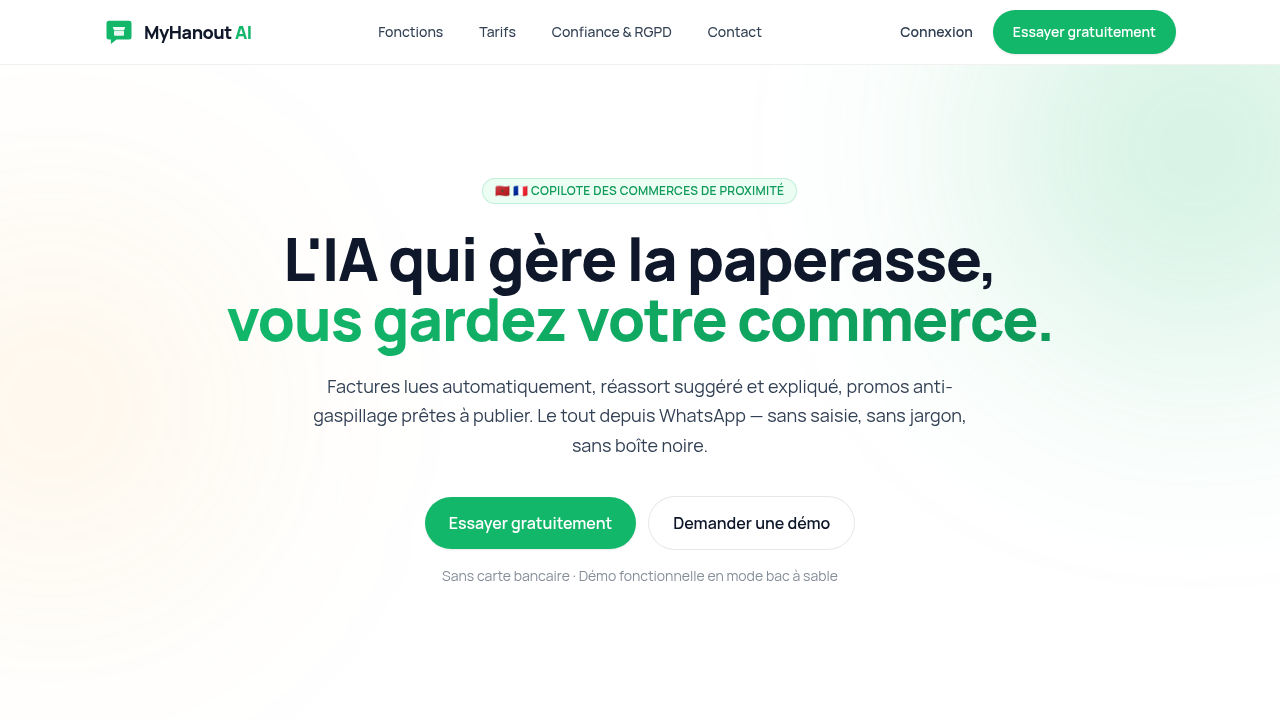
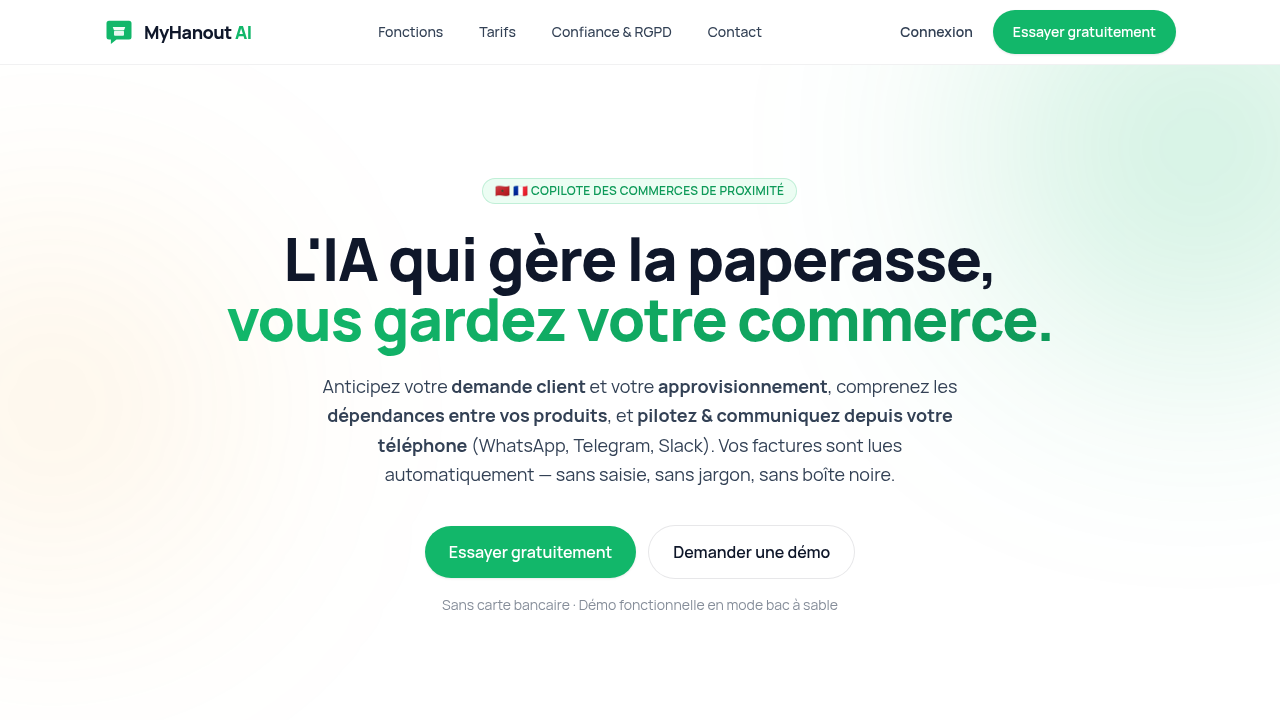
copy(positioning): recentre le hook (demande + appro + dépendances + communication mobile)
Repositionne la communication marketing (README + vitrine) :
- Met en avant : prévoir la **demande client ET l'approvisionnement**, **comprendre
  les dépendances entre produits** (compléments/substituts), et **piloter & communiquer
  depuis le téléphone** (WhatsApp/Telegram/Slack).
- Sort l'**anti-gaspillage du cœur** du message : la promo/animation reste une
  fonctionnalité (« Communication & promos »), plus l'argument central.
- Hero, cartes fonctions, section split, steps, SEO (consts), README intro + tableau,
  contact + pricing. Captures vitrine régénérées.

Claude-Session: https://claude.ai/code/session_01RTAAvKsH6QCtLuynx2CiAU

Changed region(s): [[0.25, 0.5194, 0.75, 0.8556], [0.5312, 0.7028, 0.6562, 0.7333]]

diff --git a/website/src/consts.ts b/website/src/consts.ts
@@ -3,8 +3,9 @@ export const SITE = {
   name: "MyHanout AI",
   title: "MyHanout AI — Le copilote IA des commerces de proximité",
   description:
-    "OCR de factures, prévision de la demande, réassort explicable et promos anti-gaspillage. " +
-    "Piloté depuis WhatsApp/Telegram. Multi-tenant, RGPD, human-in-the-loop.",
+    "Prévoyez votre demande client et votre approvisionnement, comprenez les dépendances " +
+    "entre vos produits, et communiquez depuis votre téléphone (WhatsApp/Telegram/Slack). " +
+    "OCR de factures inclus. Multi-tenant, RGPD, human-in-the-loop.",
   // URL de l'app (dashboard). Surchargée par PUBLIC_APP_URL au build si besoin.
   appUrl: import.meta.env.PUBLIC_APP_URL || "http://localhost:5173",
 };

diff --git a/README.md b/README.md
@@ -1,7 +1,7 @@
 # 🏪 MyHanout AI — l'IA qui vous facilite la gestion de votre commerce
 
 > Copilot IA pour les commerces de proximité (boucherie, épicerie, boulangerie, primeur…),
-> piloté depuis **WhatsApp / Telegram** + un dashboard léger.
+> piloté depuis **WhatsApp / Telegram / Slack** + un dashboard léger.
 > Principe directeur : **human-in-the-loop · explicable · auditable · RGPD · multi-commerces.**
 
 <p>
@@ -13,10 +13,11 @@
   <img alt="status" src="https://img.shields.io/badge/statut-démo%20fonctionnelle-success.svg" />
 </p>
 
-MyHanout AI ingère le passif documentaire du commerçant (factures PDF/photo via OCR),
-structure les données, **prévoit la demande**, **alerte** sur ruptures et péremptions,
-propose des **commandes de réassort explicables**, déclenche des **promos anti-gaspillage**,
-et **répond/agit** par messagerie — toujours sous contrôle humain.
+MyHanout AI **prévoit la demande client et l'approvisionnement**, **comprend les dépendances
+entre produits** (compléments / substituts), propose des **commandes de réassort explicables**,
+**alerte** sur les ruptures, et vous laisse **communiquer & piloter votre commerce depuis votre
+téléphone** (WhatsApp / Telegram / Slack). Il ingère aussi le passif documentaire (factures
+PDF/photo via OCR) pour nourrir le tout — toujours sous contrôle humain.
 
 <p align="center">
   <img src="website/public/shots/dashboard.png" alt="Dashboard MyHanout AI" width="49%" />
@@ -27,7 +28,7 @@ et **répond/agit** par messagerie — toujours sous contrôle humain.
   <img src="website/public/shots/data-ops.png" alt="Data Ops — orchestration des pipelines" width="49%" />
 </p>
 <p align="center">
-  <img src="website/public/shots/promos.png" alt="Promo anti-gaspillage + affiche générée" width="49%" />
+  <img src="website/public/shots/promos.png" alt="Promo & communication client + affiche générée" width="49%" />
   <img src="website/public/shots/invoices.png" alt="Factures (OCR + import email)" width="49%" />
 </p>
 
@@ -61,7 +62,7 @@ simulés tant qu'aucune clé n'est fournie. Scénario pas-à-pas : **[`docs/DEMO
 | 📊 Forecasting | Prévision de demande (naïf par défaut, Prophet/LightGBM en option) + saisonnalité/fêtes + **signaux externes** (météo, vacances scolaires, carburant, foot…) et **effets entre produits** (substituts/compléments) — voir ci-dessous |
 | 🛒 Réassort | Suggestions **explicables** (demande + stock + délai + signaux), 3 modes d'envoi fournisseur |
 | 🗂️ Catalogue | **Gestion produits** (créer/éditer) + **rangement par famille** (rayon), recherche/filtre |
-| 🔔 Promos flash | Détection fin de vie → promo IA → **affiche générée (text-to-image)** → publication **réseaux + clients opt-in (RGPD)** |
+| 📣 Communication & promos | Messages/offres rédigés par l'IA → **affiche générée (text-to-image)** → publication validée **WhatsApp/Telegram/Slack + réseaux + clients opt-in (RGPD)** |
 | 💶 Gestion financière | **OPEX/CAPEX** (tagging IA explicable, validé humain), **trésorerie** (alerte cash), **valorisation stock**, **marges réelles** + alertes (doublon, prix, marge, échéance) — pré-compta |
 | 🌡️ Chaîne du froid | Suivi **température** des machines (HACCP) via capteurs (mock keyless ou thermomètres connectés), **alertes explicables** anti-gaspillage |
 | 🔌 Intégrations | **Import JSON** + **sync DWH** + **connecteur caisse (POS)** (ingestion ventes idempotente) + page **Connecteurs** (statut messagerie/data/IoT, sans secret) |